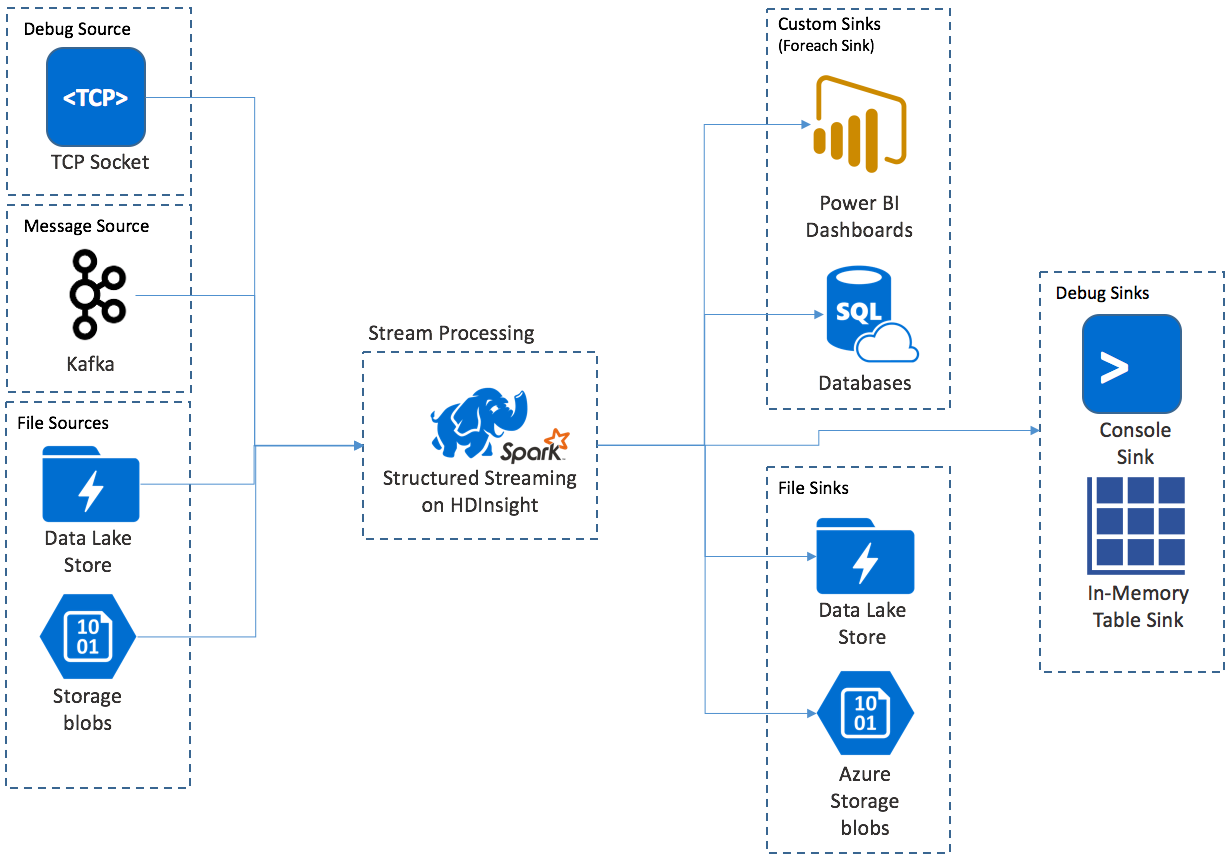
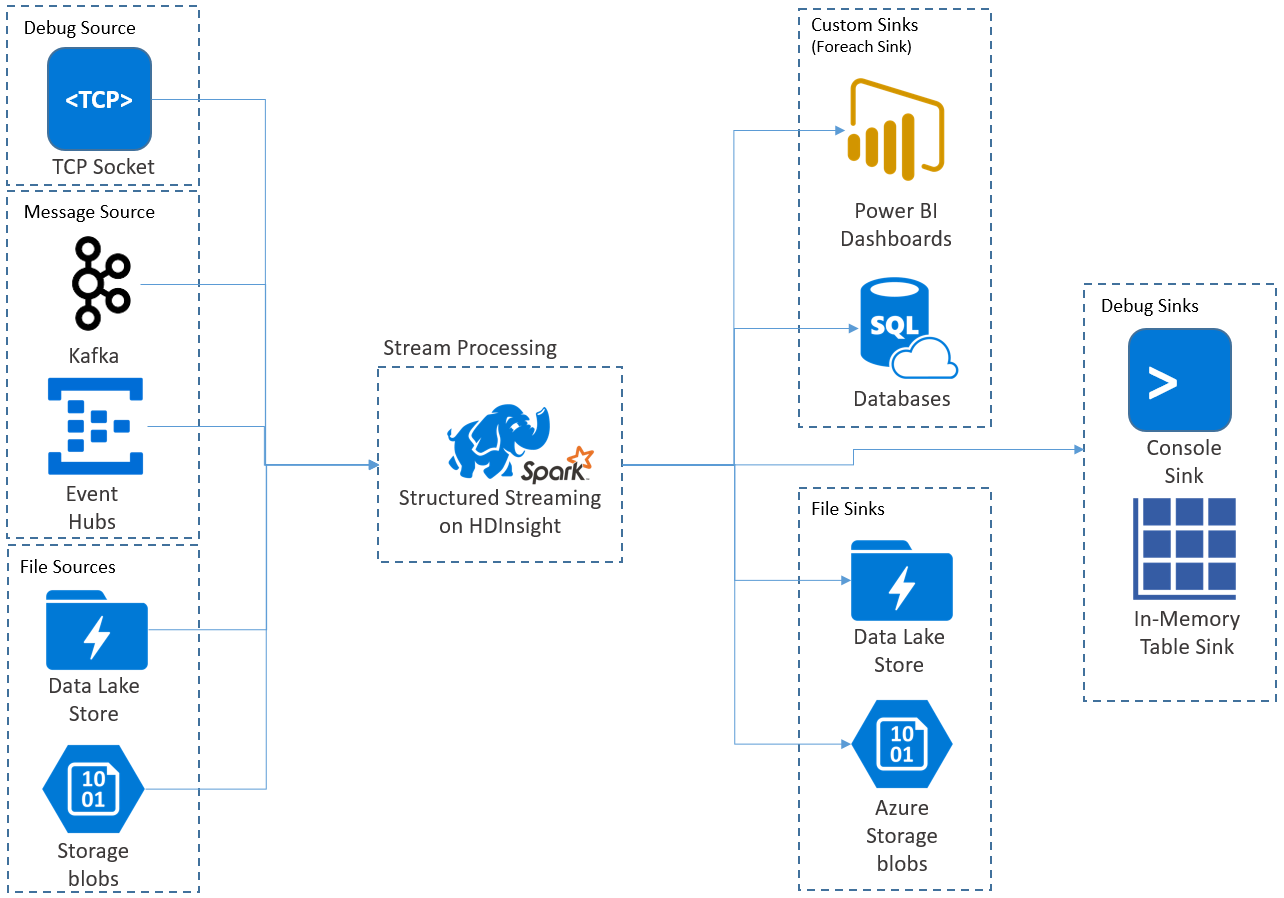
updated illustration and added note

diff --git a/hdinsight-spark-structured-streaming-overview.md b/hdinsight-spark-structured-streaming-overview.md
@@ -9,6 +9,9 @@ Structured Streaming creates a long running query during which you are able to a
 ![Stream Processing with HDInsight and Spark Structured Streaming ](./media/hdinsight-spark-structured-streaming-overview/hdinsight-spark-structured-streaming.png)
 
 
+> [!NOTE]
+> Spark Structured Streaming is intended to be the replacement for Spark Streaming (DStreams). This means  going forward, Structured Streaming will receive enhancments and maintenance, whereas DStreams will be in maintenance mode only. It is important to note, however, that Structured Streaming is currently not as feature complete as DStreams when it comes to the sources and sinks that it supports out of the box, so you should evaluate your requirements first before choosing the appropriate Spark stream processing option. 
+
 ## Streams as Tables
 Spark Structured Streaming takes the perspective that a stream of data can be represented as a table that is unbounded in height- in other words it continues to grow as new data arrives. This Input Table is continously processed by a long running query, and the results flushed out to an Output Table. This concept is best explained with the following illustration:
 
